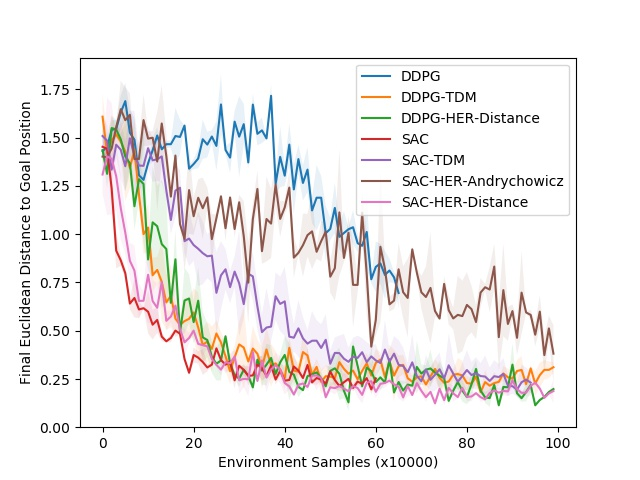
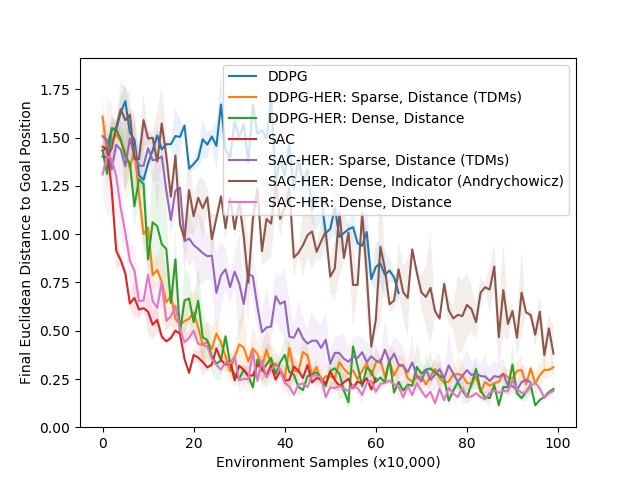
update ant results plot

Changed region(s): [[0.3438, 0.125, 0.875, 0.4688], [0.3438, 0.9375, 0.6875, 1.0]]

diff --git a/experiments/state_distance/iclr2018/ant_results.py b/experiments/state_distance/iclr2018/ant_results.py
@@ -64,17 +64,35 @@ def main():
 
     MAX_ITERS = 100
 
-
     plt.figure()
     for trials, name, key in [
         (ddpg_trials, 'DDPG', 'Final Distance to goal Mean'),
-        (ddpg_tdm_trials, 'DDPG-TDM', 'Final Distance to goal Mean'),
-        (ddpg_her_distance_trials, 'DDPG-HER-Distance', 'Final Distance to goal Mean'),
+        (
+             ddpg_tdm_trials,
+             'DDPG-HER: Sparse, Distance (TDMs)',
+             'Final Distance to goal Mean',
+        ),
+        (
+            ddpg_her_distance_trials,
+            'DDPG-HER: Dense, Distance',
+            'Final Distance to goal Mean',
+        ),
         (sac_trials, 'SAC', 'Final Distance to goal Mean'),
-        (sac_tdm_trials, 'SAC-TDM', 'Final Distance to goal Mean'),
-        (sac_her_andrychowicz_trials, 'SAC-HER-Andrychowicz', 'Final Distance to goal Mean'),
-        (sac_her_distance_trials, 'SAC-HER-Distance', 'Final Distance to goal Mean'),
-        # (trpo_trials, 'TRPO', 'Final Distance to goal Mean'),
+        (
+             sac_tdm_trials,
+             'SAC-HER: Sparse, Distance (TDMs)',
+             'Final Distance to goal Mean',
+        ),
+        (
+            sac_her_andrychowicz_trials,
+            'SAC-HER: Dense, Indicator (Andrychowicz)',
+            'Final Distance to goal Mean',
+        ),
+        (
+            sac_her_distance_trials,
+            'SAC-HER: Dense, Distance',
+            'Final Distance to goal Mean',
+        ),
     ]:
         key = key.replace(" ", "_")
         all_values = []
@@ -99,8 +117,7 @@ def main():
         plt.fill_between(epochs, mean - std, mean + std, alpha=0.1)
         plt.plot(epochs, mean, label=name)
 
-    # plt.xscale('log')
-    plt.xlabel("Environment Samples (x10000)")
+    plt.xlabel("Environment Samples (x10,000)")
     plt.ylabel("Final Euclidean Distance to Goal Position")
     plt.legend()
     plt.savefig('results/iclr2018/ant.jpg')
